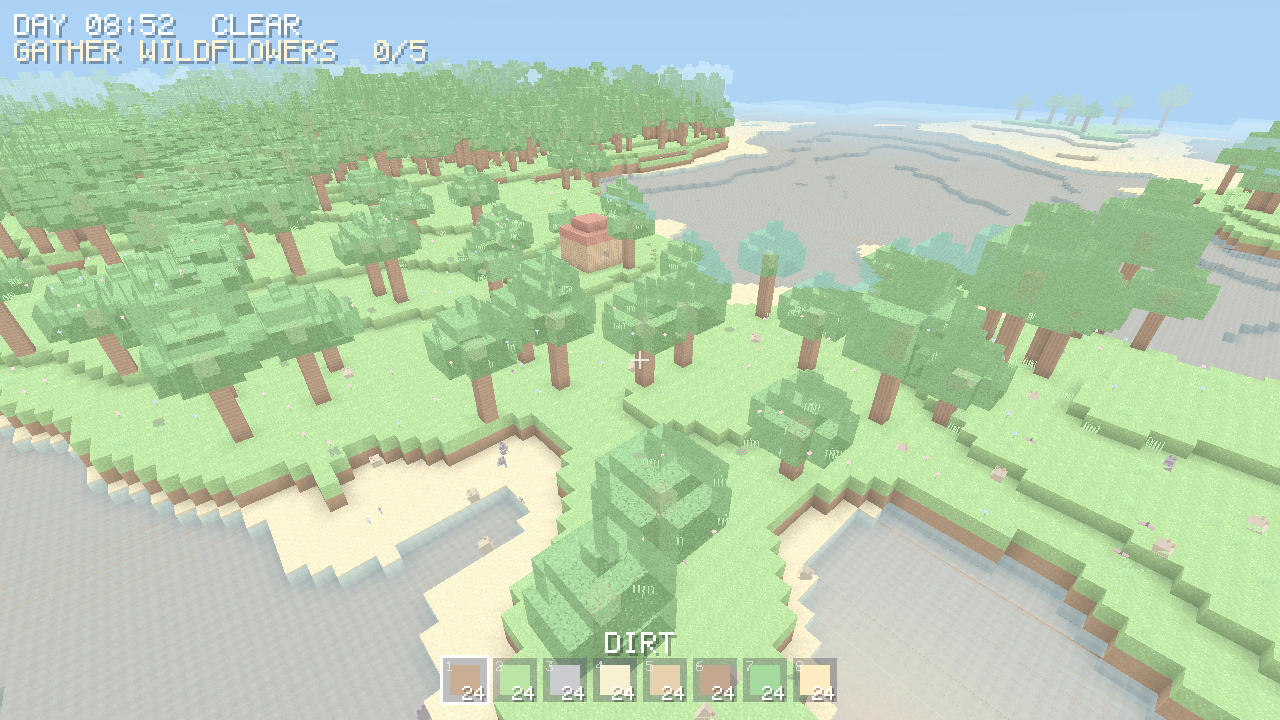
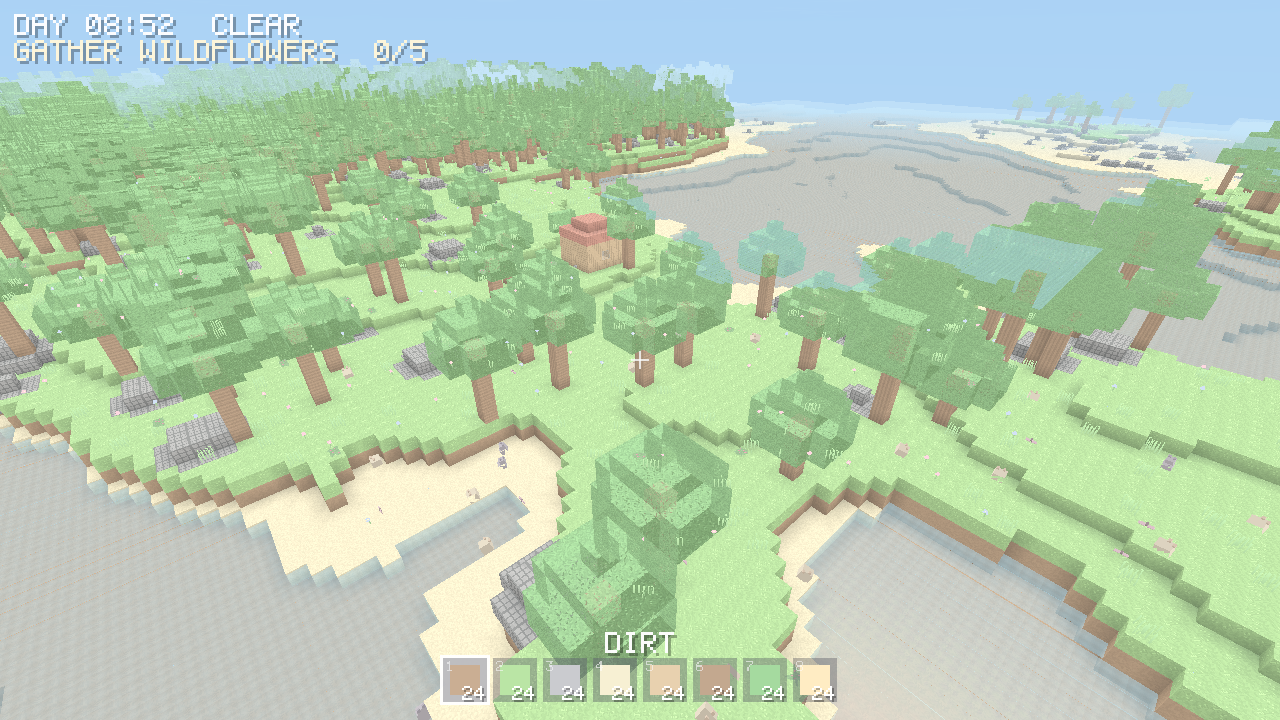
Stage 33: scattered mossy boulders
- Rare cobble boulders (squashed-sphere clumps) scatter across open ground to
  add terrain detail and a foraging target. Refreshed screenshots.

diff --git a/crates/worldgen/src/generator.rs b/crates/worldgen/src/generator.rs
@@ -259,6 +259,33 @@ impl WorldGenerator {
                     self.place_tree(storage, origin, wx, wz, surface, col.biome, &mut rng);
                 } else if roll < profile.tree_density + profile.flora_density {
                     self.place_flora(storage, origin, wx, wz, surface, col.biome, &mut rng);
+                } else if roll > 0.994 {
+                    // A rare mossy boulder to break up open ground.
+                    self.place_boulder(storage, origin, wx, wz, surface, &mut rng);
+                }
+            }
+        }
+    }
+
+    /// Stamp a small rounded boulder (a clump of cobble) resting on the surface.
+    fn place_boulder(
+        &self,
+        storage: &mut ChunkStorage,
+        origin: pixelcraft_core::coords::BlockPos,
+        wx: i32,
+        wz: i32,
+        surface: i32,
+        rng: &mut SplitMix64,
+    ) {
+        let r = 1 + (rng.next_u64() % 2) as i32; // radius 1..2
+        for dy in 0..=r {
+            for dz in -r..=r {
+                for dx in -r..=r {
+                    // Squashed sphere so it sits like a rock, not a cube.
+                    if dx * dx + (dy * dy) * 2 + dz * dz > r * r + 1 {
+                        continue;
+                    }
+                    self.stamp(storage, origin, wx + dx, surface + dy, wz + dz, blocks::COBBLE, true);
                 }
             }
         }
